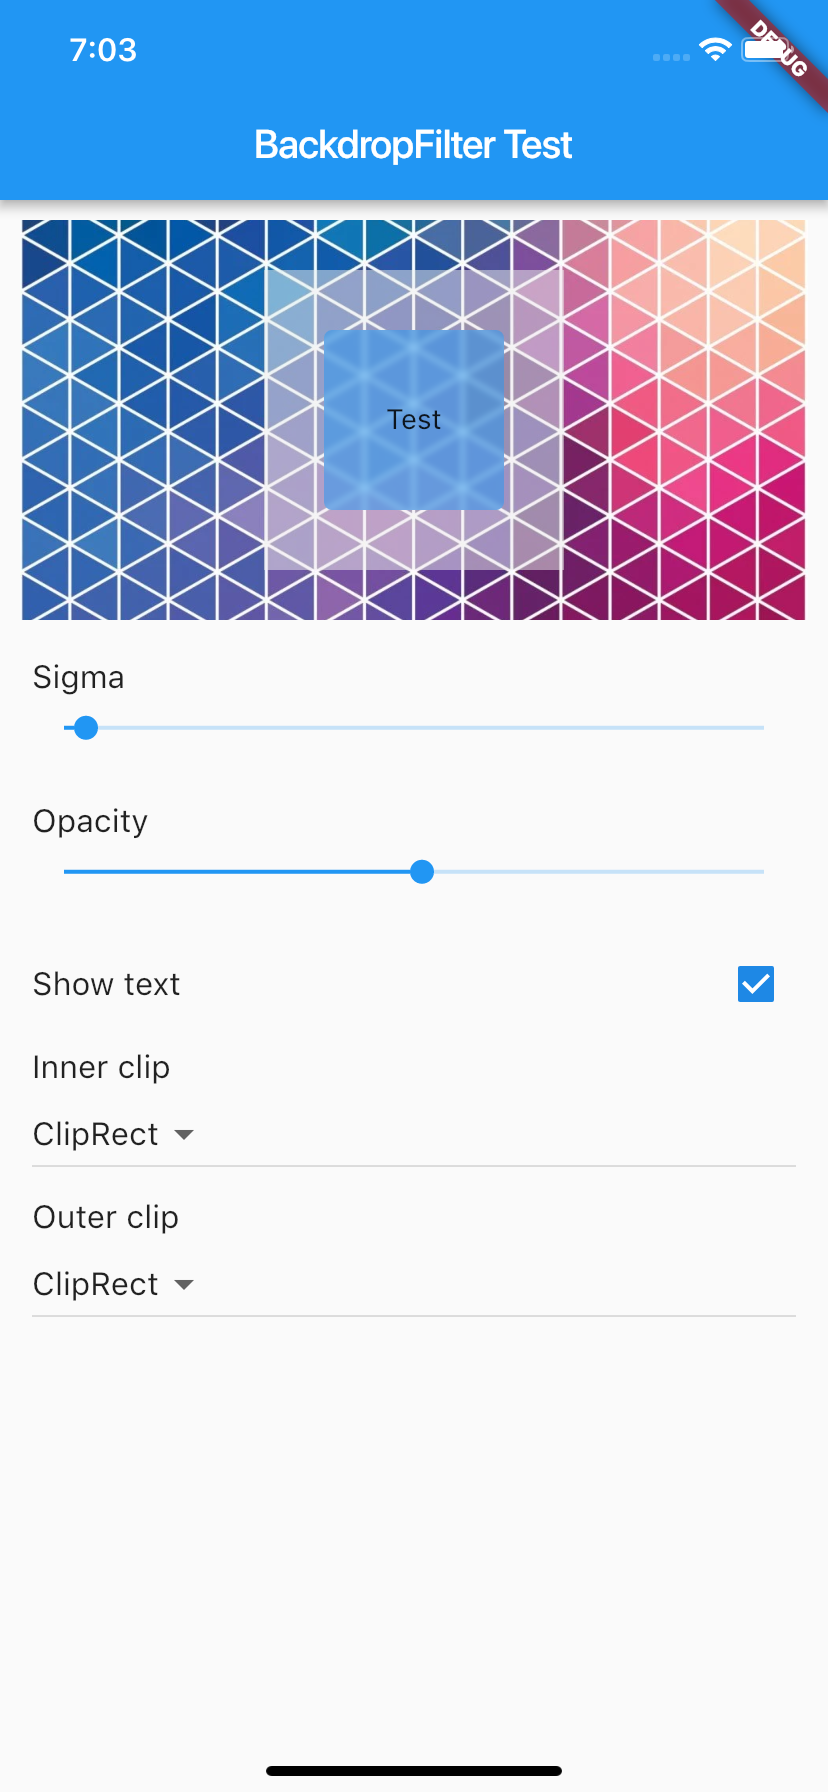
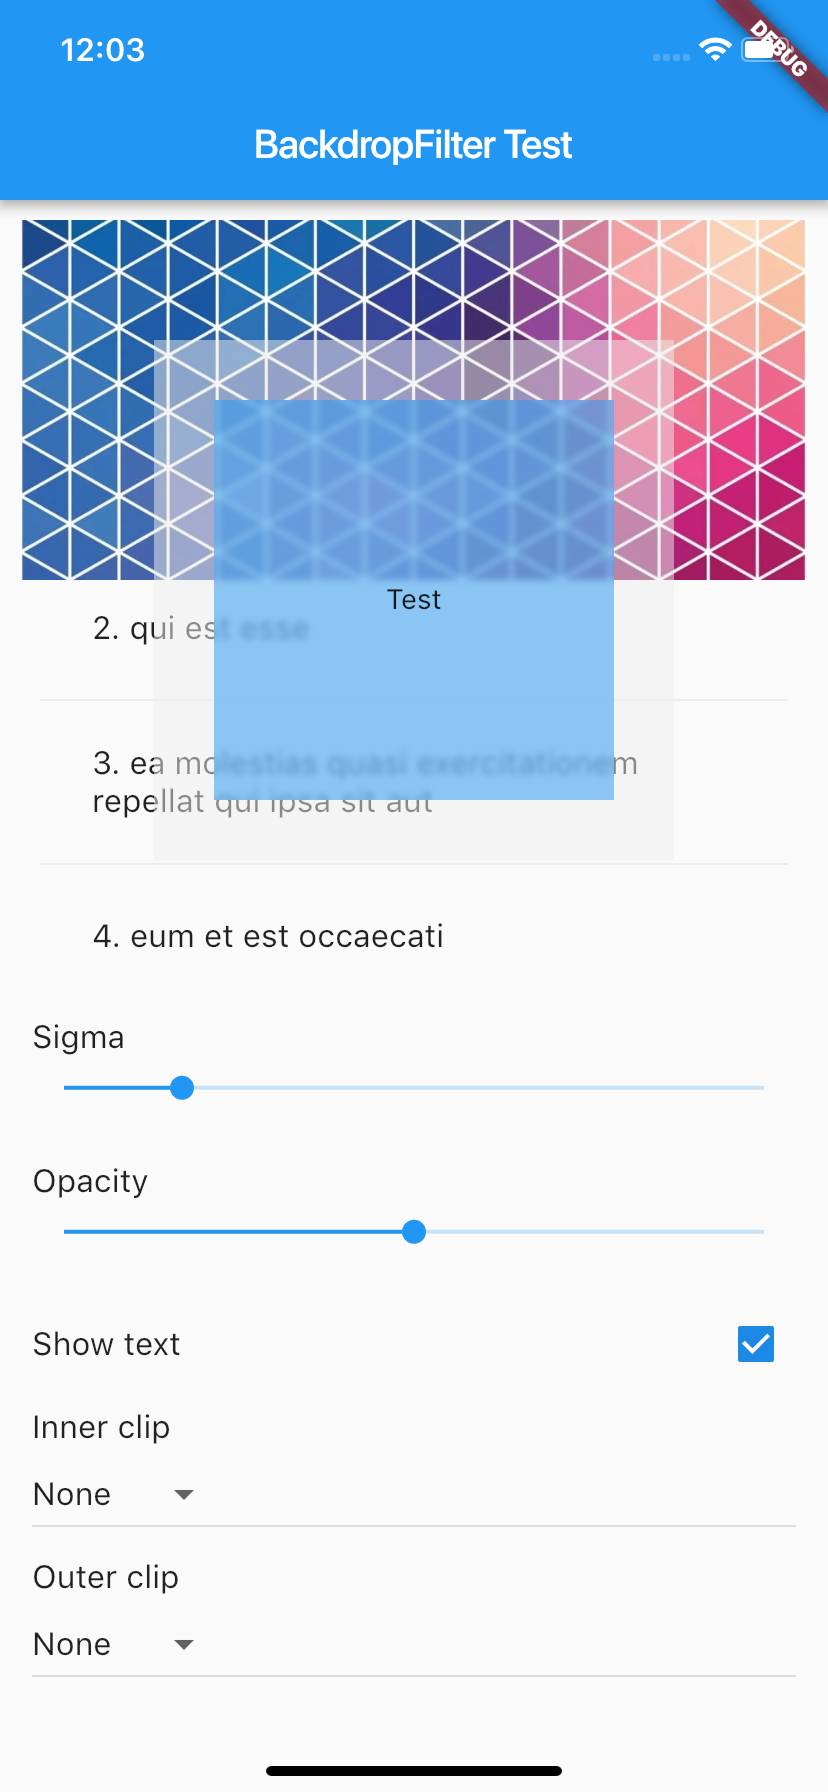
Add text list.

diff --git a/README.md b/README.md
@@ -1,4 +1,4 @@
 # FlutterBlurDemo
 A Gaussian blur Demo with flutter BackdropFilter.
 
-![screenshot](https://github.com/zhaoya188/FlutterBlurDemo/raw/master/ScreenShot.png)
+<div align=center><img width="400" height="900" src="https://github.com/zhaoya188/FlutterBlurDemo/raw/master/ScreenShot.png"/></div>
